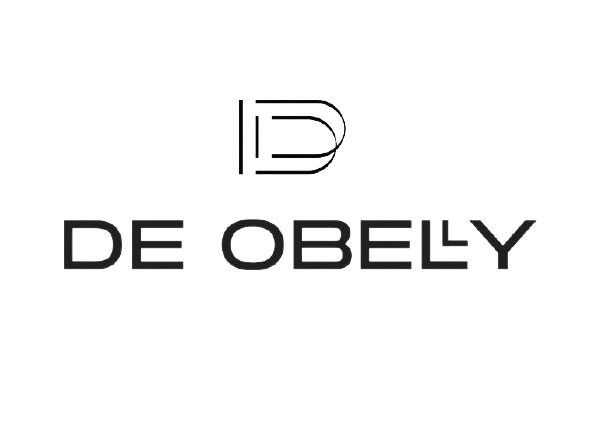
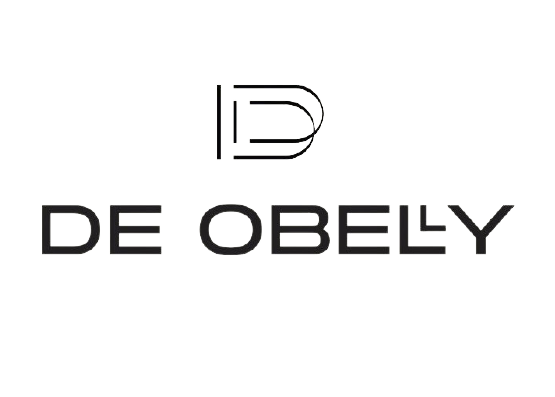
Signed-off-by: vuvuvuvvv <nguyenvu260502@gmail.com>

Changed region(s): [[0.3369, 0.5139, 0.9189, 0.665], [0.3676, 0.2116, 0.582, 0.4232], [0.0613, 0.5139, 0.3369, 0.665]]

diff --git a/frontend/web/css/style.css b/frontend/web/css/style.css
@@ -26,6 +26,10 @@ body {
     background-color: #fff;
 }
 
+.p-home {
+    padding: 25px;
+}
+
 .topbar > ul > li > a {
     text-decoration: none;
     color: white;
@@ -57,8 +61,8 @@ body {
 }
 
 .logo-align > img {
-    height: 70px;
-    max-height: 70px;
+    height: 80px;
+    max-height: 80px;
 }
 
 .main-site-nav {
@@ -69,6 +73,16 @@ body {
 #main-menu > li {
     display: inline;
     padding-right: 15px;
+}
+
+#main-menu > li > .btn {
+    vertical-align: baseline !important;
+    border: none;
+}
+
+#main-menu > li > .btn:focus {
+    outline: none !important;
+    box-shadow: none !important;
 }
 
 #main-menu > li > a {
@@ -282,6 +296,7 @@ footer .footer-content {
     color: white;
     font-weight: bolder;
 }
+
 /* Phone call btn */
 .phone-call {
     width: 50px;
@@ -363,4 +378,5 @@ footer .footer-content {
         opacity: 0;
     }
 }
+
 /* End Phone call btn */

diff --git a/frontend/views/layouts/main.php b/frontend/views/layouts/main.php
@@ -4,6 +4,7 @@
 
 /* @var $content string */
 
+use common\components\SystemConstant;
 use common\widgets\Alert;
 use frontend\assets\AppAsset;
 use frontend\models\ProductType;
@@ -46,7 +47,6 @@ AppAsset::register($this);
     <body>
     <?php $this->beginBody() ?>
     <?php $mainType = ArrayHelper::map(ProductType::getProductType(), 'id', 'name'); ?>
-    <?php var_dump(ArrayHelper::map(ProductType::getProductType(), 'id', 'name','slug')); ?>
     <div id="wrapper">
         <div id="content">
             <div class="sticky-top">
@@ -178,7 +178,7 @@ AppAsset::register($this);
                                                     </a>
                                                     <ul class="nav nav-treeview" style="display:none">
                                                         <?php foreach ($mainType as $key => $value): ?>
-                                                            <?php if ($key == 3 || $key == 4): ?>
+                                                            <?php if ($key != SystemConstant::PRODUCT_TYPE_LUXURY && $key != SystemConstant::PRODUCT_TYPE_CASUAL): ?>
                                                                 <li class="nav-item">
                                                                     <a href="<?= Url::toRoute(['shop/product', 'type' => \common\components\encrypt\CryptHelper::encryptString($key)]) ?>"
                                                                        class="nav-link ">
@@ -212,28 +212,53 @@ AppAsset::register($this);
                         </div>
                         <div class="main-nav-left col-10 col-sm-10 col-lg-2 text-center text-sm-center text-lg-start">
                             <div class="d-flex align-items-center justify-content-center">
-                                <a href="<?php echo Url::home() ?>" class="logo-align">
-                                    <img src="<?= $cdnUrl ?>/img/home.png" class="p-3">
+                                <a href="<?php echo Url::home() ?>"
+                                   class="logo-align <?= ($controller == 'site' && $action == 'index') ? 'd-none' : '' ?>">
+                                    <img src="<?= $cdnUrl ?>/img/home.png" class="p-home border-start border-end">
                                 </a>
-                                <a href="<?php echo Url::toRoute('site/luxury') ?>" class="logo-align <?= ($controller == 'site' && $action == 'casual') ?  'd-none':''?>">
+                                <a href="<?php echo Url::toRoute('site/luxury') ?>"
+                                   class="logo-align <?= ($controller == 'site' && $action == 'casual') ? 'd-none' : '' ?> <?= ($controller == 'site' && $action == 'index') ? 'border-end' : '' ?>">
                                     <img src="<?= $cdnUrl ?>/img/luxury.png">
                                 </a>
-                                <a href="<?php echo Url::toRoute('site/casual') ?>" class="logo-align <?= ($controller == 'site' && $action == 'luxury') ?  'd-none':''?>">
+                                <a href="<?php echo Url::toRoute('site/casual') ?>"
+                                   class="logo-align <?= ($controller == 'site' && $action == 'luxury') ? 'd-none' : '' ?>">
                                     <img src="<?= $cdnUrl ?>/img/casual.png">
                                 </a>
                             </div>
                         </div>
                         <div class="main-nav-right col-1 col-sm-1 col-lg-10 text-end">
-                            <ul class="site-nav mb-0 ps-0 d-none d-sm-none d-lg-inline" id="main-menu">
+                            <ul class="site-nav mb-0 ps-0 d-none d-sm-none d-lg-inline-block" id="main-menu">
                                 <?php foreach ($mainType as $key => $value): ?>
-                                    <li><a
-                                                href="<?= Url::toRoute(['shop/product', 'type' => \common\components\encrypt\CryptHelper::encryptString($key)]) ?>"
-                                                class="site-nav-link"><span><?= Yii::t('app', $value) ?> </span></a>
-                                    </li>
+                                    <?php if ($key == SystemConstant::PRODUCT_TYPE_NEW): ?>
+                                        <li>
+                                            <a href="<?= Url::toRoute(['shop/product', 'type' => \common\components\encrypt\CryptHelper::encryptString($key)]) ?>"
+                                               class="site-nav-link"><span><?= Yii::t('app', $value) ?></span></a>
+                                        </li>
+                                    <?php endif; ?>
                                 <?php endforeach; ?>
-                                <li><a
-                                            href="<?= Url::toRoute('/#') ?>"
-                                            class="site-nav-link <?= ($controller == 'site' && $action == 'casual' || $action == 'index') ?  'd-none':''?>"><span>May mặc</span></a>
+
+                                <li>
+                                    <a href="javascript:void(0)" type="button"
+                                       class="btn p-0 m-0 bg-transparent dropdown-toggle site-nav-link"
+                                       data-bs-toggle="dropdown" aria-expanded="false">
+                                        DE-OBELLY
+                                    </a>
+                                    <ul class="dropdown-menu">
+                                        <?php foreach ($mainType as $key => $value): ?>
+                                            <?php if ($key != SystemConstant::PRODUCT_TYPE_LUXURY && $key != SystemConstant::PRODUCT_TYPE_CASUAL && $key != SystemConstant::PRODUCT_TYPE_NEW): ?>
+                                                <li>
+                                                    <a href="<?= Url::toRoute(['shop/product', 'type' => \common\components\encrypt\CryptHelper::encryptString($key)]) ?>"
+                                                       class="dropdown-item"><span><?= Yii::t('app', $value) ?></span></a>
+                                                </li>
+                                            <?php endif; ?>
+                                        <?php endforeach; ?>
+                                    </ul>
+                                </li>
+                                <li><a href="<?= Url::toRoute('/#') ?>"
+                                       class="site-nav-link <?= ($controller == 'site' && $action == 'casual' || $action == 'index') ? 'd-none' : '' ?>"><span>May mặc</span></a>
+                                </li>
+                                <li><a href="<?= Url::toRoute('/#') ?>"
+                                       class="site-nav-link"><span>Showroom</span></a>
                                 </li>
                                 <li class="pe-0">
                                     <div class="vr mx-2"></div>
